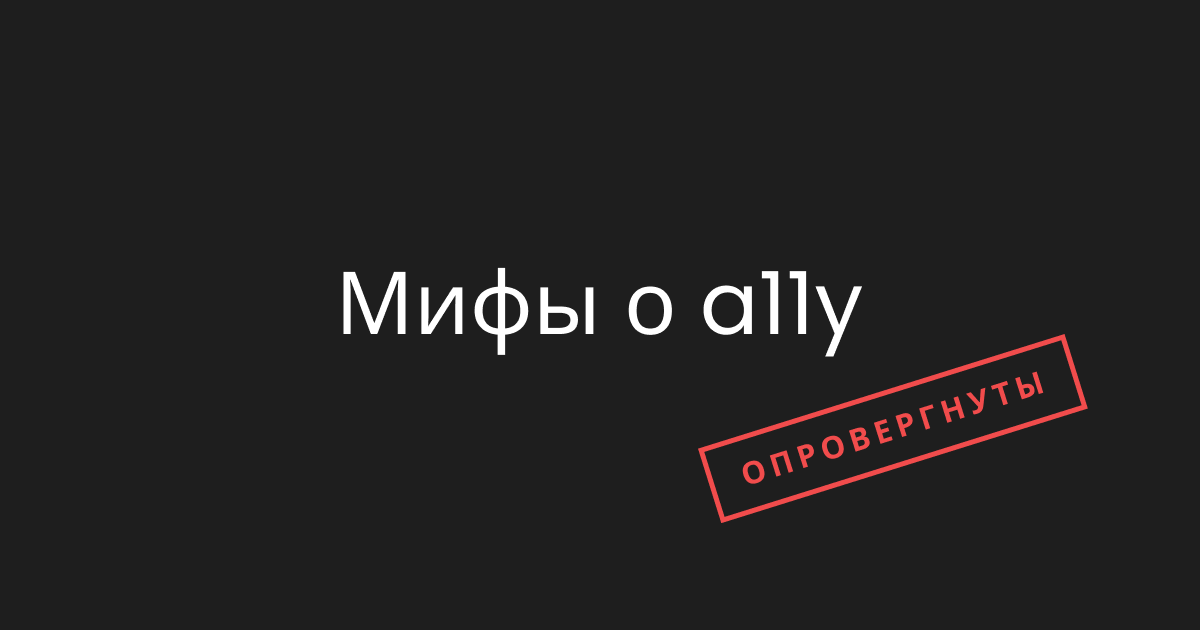
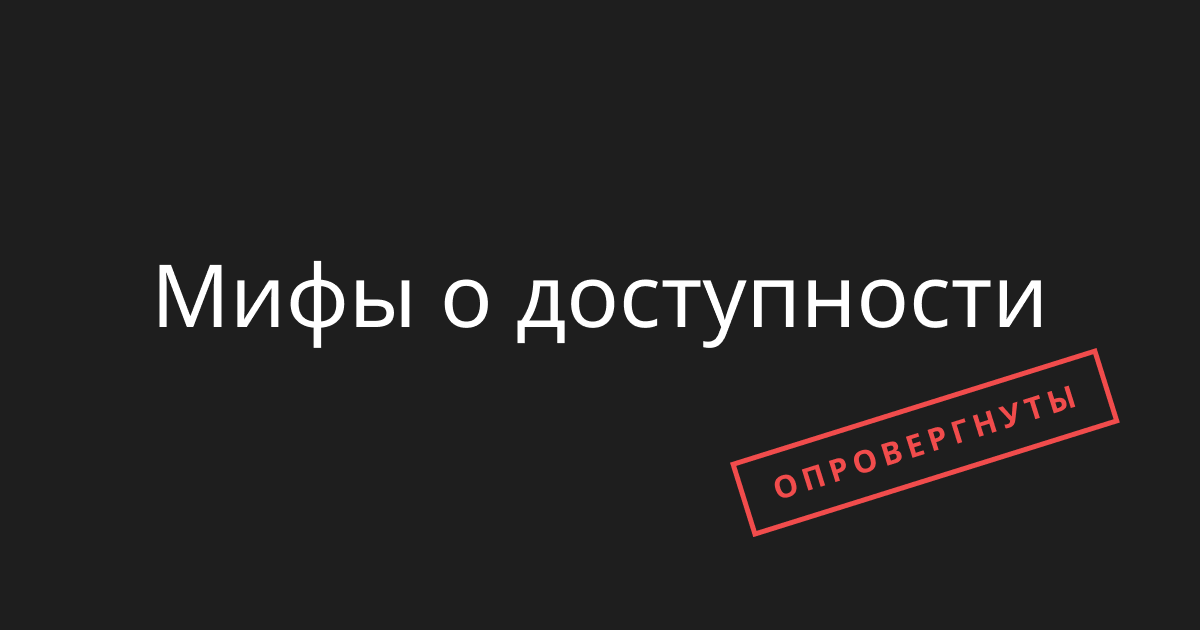
Change h1 and replace the old OG image

Changed region(s): [[0.1233, 0.4222, 0.9558, 0.8444]]

diff --git a/ru/index.html b/ru/index.html
@@ -72,7 +72,7 @@
           </ul>
         </nav>
 
-        <h1>Мифы о a11y</h1>
+        <h1>Мифы о доступности</h1>
         <p class="stamp">Опровергнуты</p>
 
         <section class="myth">
